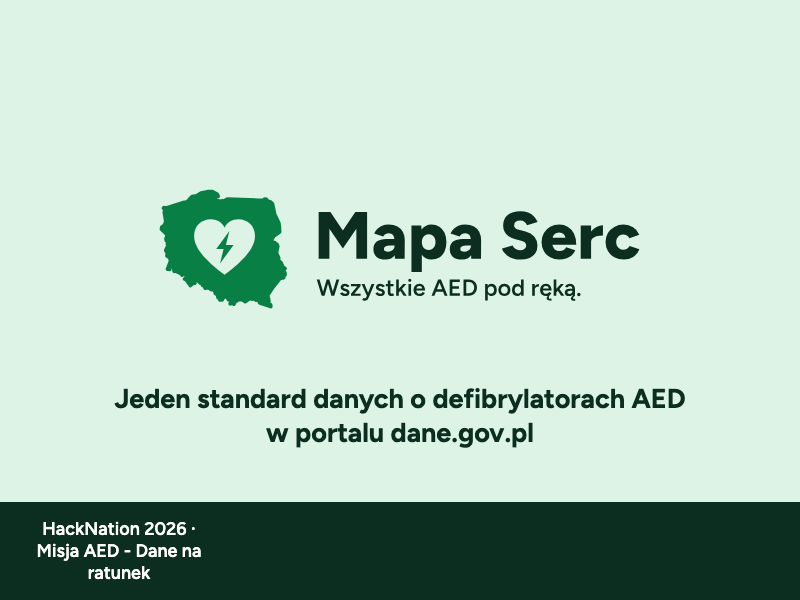
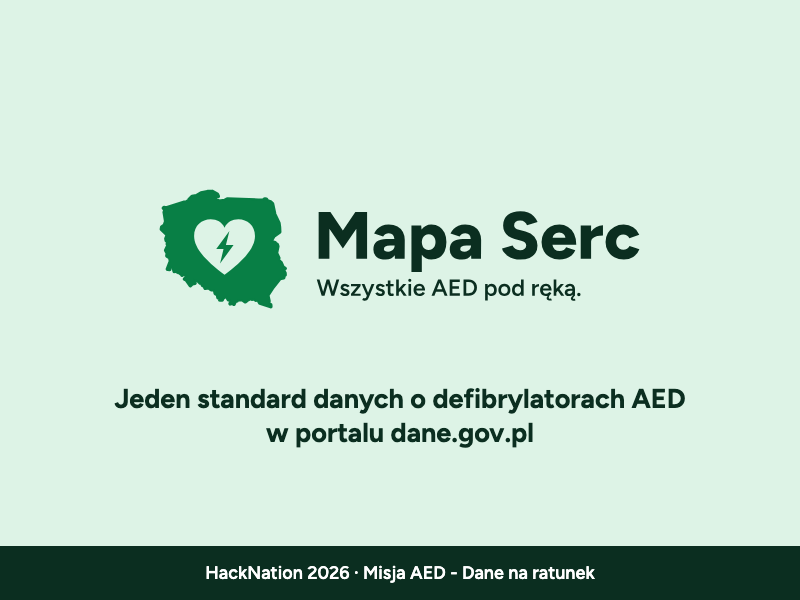
docs: fix the HackTribe cover after the deck style change

Changed region(s): [[0.0, 0.81, 1.0, 0.99]]

diff --git a/submission/prezentacja/okladka.html b/submission/prezentacja/okladka.html
@@ -12,8 +12,8 @@
   }
   .ht img { width: 560px; }
   .ht p { margin: 0; }
-  .ht .pod { font-size: 27px; font-weight: 700; line-height: 1.25; margin-top: 34px; max-width: 640px; }
-  .ht .pasek {
+  .ht .ht-pod { font-size: 27px; font-weight: 700; line-height: 1.25; margin-top: 34px; max-width: 640px; }
+  .ht .ht-pasek {
     position: absolute; left: 0; right: 0; bottom: 0; background: var(--ciemna); color: var(--bialy);
     font-size: 18px; font-weight: 600; padding: 16px 24px;
   }
@@ -22,8 +22,8 @@
 <body>
 <div class="ht">
   <img src="../../brand/logo/mapa-serc-logo-haslo-kolor.svg" alt="Mapa Serc - Wszystkie AED pod ręką.">
-  <p class="pod">Jeden standard danych o defibrylatorach AED<br>w&nbsp;portalu dane.gov.pl</p>
-  <p class="pasek">HackNation 2026 · Misja AED - Dane na ratunek</p>
+  <p class="ht-pod">Jeden standard danych o defibrylatorach AED<br>w&nbsp;portalu dane.gov.pl</p>
+  <p class="ht-pasek">HackNation 2026 · Misja AED - Dane na ratunek</p>
 </div>
 </body>
 </html>
